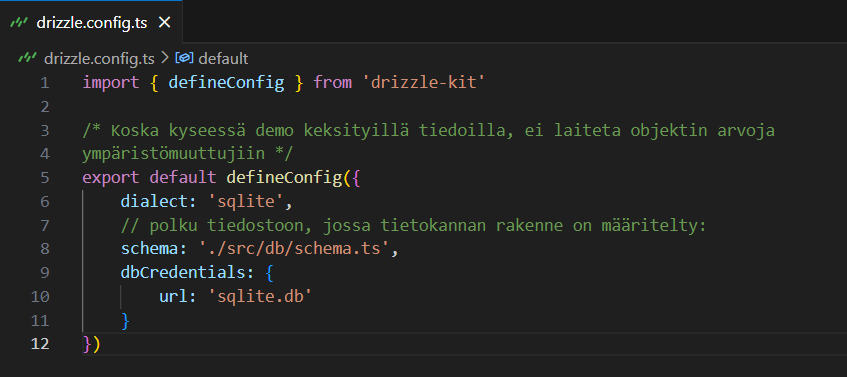
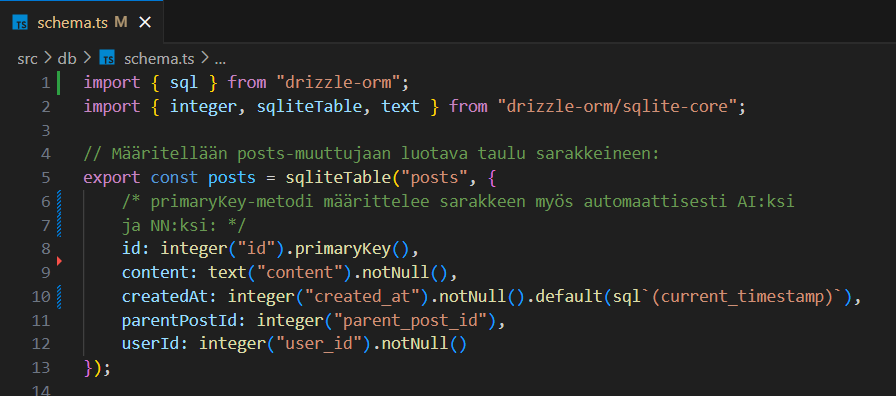
task_series_3.md-tiedostoon täydennetty kohta 1. A) ja tehty kohta 1. B). Näihin liittyen lisätty kuvia. schema.ts-tiedostossa createdAt-sarakkeelle lisätty oletusarvo. parentPostId-sarakkeelle lisätty viiteavain. Taululle lisätty sisäinen one-to-many-relaatio kahden eri muuttujamäärittelyn avulla.

diff --git a/src/db/schema.ts b/src/db/schema.ts
@@ -1,13 +1,37 @@
-import { integer, sqliteTable, text } from "drizzle-orm/sqlite-core";
+import { relations, sql } from "drizzle-orm";
+import { AnySQLiteColumn, integer, sqliteTable, text } from "drizzle-orm/sqlite-core";
 
 // Määritellään posts-muuttujaan luotava taulu sarakkeineen:
 export const posts = sqliteTable("posts", {
-    // primaryKey-metodi määrittelee sarakkeen myös automaattisesti NN:ksi: 
+    /* primaryKey-metodi määrittelee sarakkeen myös automaattisesti AI:ksi 
+    ja NN:ksi: */
     id: integer("id").primaryKey(),
-    topic: text("topic").notNull(), 
     content: text("content").notNull(), 
-    createdAt: integer("created_at").notNull(),
-    parentPostId: integer("parent_post_id"), 
+    createdAt: integer("created_at").notNull().default(sql`(current_timestamp)`),
+    parentPostId: integer("parent_post_id").references((): AnySQLiteColumn => posts.id), 
     userId: integer("user_id").notNull()
 });
+
+
+// Relaatio aloitusviestistä vastausviesteihin:
+export const fromStarterToResponse = relations(posts, ({ many }) => ({
+    posts: many(posts, {
+        relationName: "postRelations"
+    })
+}));
+
+
+// Relaatio vastausviestistä aloitusviestiin:
+export const fromResponseToStarter = relations(posts, ({ one }) => ({
+    parent: one(posts, {
+        /* Vierasavain, joka viittaa toisen (tässä tapaukessa oman) taulun 
+        primary keyhyn: */
+        fields: [posts.parentPostId], 
+        /* Taulun ensisijainen avain, josta toisen (tässä tapauksessa oman) 
+        taulun vierasavaimelle saadaan arvo eli viite: */
+        references: [posts.id], 
+        relationName: "postRelations"
+    })
+}))
+
 

diff --git a/task_series_3.md b/task_series_3.md
@@ -4,24 +4,44 @@
 
 Tämä tehtävä on tehty Hono-projektina npm-paketinhallintaohjelmalla. Tietokanta on toteutettu Drizzle ORM -kirjastoa hyödyntämällä. Hono-projektin juureen on luotu drizzle.config.ts-tiedosto ja db-kansio. drizzle.config.ts-tiedostossa on Drizzle ORM -kirjaston käyttöön liittyviä määrittelyjä. Konfiguraatiofunktiokutsussa määritellään muun muassa, että käytetään SQLite-tietokantaa. Lisäksi määritellään polku tiedostoon, jossa tietokannan rakenne on määritelty, sekä tietokannan tiedostonimi.
 
-![alt text](image.png)
+![alt text](./images/image-1.png)
 
 Projektin juureen on luotu myös db-kansio, jonne on tehty schema.ts- ja sqlite_db.ts-tiedostot. Valmiissa projektissa schema.ts-tiedostosta löytyy tietokantataulut ja tietokantarelaatiot, jotka on määritelty Drizzle ORM -kirjaston metodien avulla omiin muuttujiinsa. sqlite_db.ts-tiedossa Database-luokasta instantioidaan sqlite.db-niminen tietokanta ja db-muuttujaan luodaan yhteys tähän tietokantaan.
 
-![alt text](image-1.png)
+![alt text](./images/image-2.png)
 
 Jotta tietokannan luonti ja sen tarkastelu Drizzle Studio -työkalun avulla onnistuu, on projektin package.json-tiedostossa olevan objektin scripts-avaimessa olevan objektin sisään lisätty generate-, migrate- ja studio-avaimet arvoineen. Jos devDepedencies-avaimen objektilta ei löydy @types/better-sqlite3-avainta, pitää se lisätä erikseen komentoterminaalin kautta ajamalla projektin juurisijainnissa komento npm install @types/better-sqlite3 --save-dev.
 
+![alt text](./images/image-3.png)
+
+### 1. Toteuta määrittelyn pohjalta valitsemaasi tietokantaratkaisuun tarvittavat muutokset
+
+A) Lisätään tietokantaan posts-taulu viesteille/postauksille määritellyn datarakenteen pohjalta:
+
+Vaatimusmäärittelyiden mukaisesti id-sarake määritellään primary keyksi primaryKey-metodin avulla. Metodi asettaa sarakkeelle automaattisesti not-null- ja auto increment -ominaisuudet. Sarake on tietotyypiltään kokonaisluku. Käyttäjältä tulevan viestin varsinaista sisältöä varten tehdäään content-sarake, jonka tietotyypiksi määritellään SQLiten tietotyypeistä text. Viestillä on oltava sisältö, joten sarake määritellään not-nulliksi. created_at-sarakkeen tietotyypiksi määritellään text, ja vaatimusmäärittelyn mukaisesti automatisoidaan aikaleiman lisääminen tietokannalle määrittelemällä sarakkeelle oletusarvo Drizzlen sql-funktion avulla. Viestillä on oltava aikaleima, joten määritellään sarake not-nulliksi. parent_post_id-sarake määritellään kokonaisluvuksi tai NULL:ksi riippuen siitä, onko tietue aloitus- vai vastausviesti. user_id-sarake määritellään kokonaisluvuksi. Koska viestillä on oltava tunnistettava lähettäjä eli käyttäjä, asetetaan sarake not-nulliksi.
+
+![alt text](image.png)
+
+Ajetaan komentoterminaalissa projektin juurisijainnissa ensin komento npm run generate, sitten npm run migrate ja lopuksi npm run studio, minkä jälkeen tietokanta posts-taululla on luotu. Projektin juuresta löytyy tämän jälkeen sqlite.db-niminen tietokanta. Luotua tietokannan taulua pääsee tarkastelemaan Drizzle Studiossa osoittessa https://local.drizzle.studio/. posts-taulusta löytyy nyt posts-muuttujaan määritellyt sarakkeet:
+
+![alt text](image-1.png)
+
+Suoritetaan viestin lisäävä INSERT-kysely Drizzle runnerissa:
+
 ![alt text](image-2.png)
 
-1. Toteuta määrittelyn pohjalta valitsemaasi tietokantaratkaisuun tarvittavat muutokset
-
-A) Lisätään tietokantaan posts-taulu määritellyn datarakenteen pohjalta:
-
-Luodaan Drizzle ORM -kirjaston avulla sqlite.db-niminen tietokanta. 
-
-![The code for creating posts table](img_1a.png)
-
-Ajetaan komentoterminaalissa projektin juurisijainnissa ensin komento npm run generate, sitten npm run migrate ja lopuksi npm run studio, minkä jälkeen tietokanta posts-taululla on luotu. Projektin juuresta löytyy tämän jälkeen sqlite.db-niminen tietokanta. Lisäksi luotua tietokannan taulua pääsee tarkastelemaan Drizzle Studiossa osoittessa https://local.drizzle.studio/. posts-taulusta löytyy nyt posts-muuttujaan määritellyt sarakkeet:
+Uusi tietue on nyt lisätty posts-tauluun. Tietokanta huolehti id:n ja aikaleiman generoinnin lisätylle tietueelle:
 
 ![alt text](image-3.png)
+
+B) Lisätään posts-tauluun viiteavain postaukseen itseensä. 
+
+Vaatimusmäärittelyn mukaan aloitusviestillä voi olla vastausviestejä, minkä vuoksi viestien välille tarvitaan relaatio/viite. Koska viite tehdään tauluun itseensä, tehdään tauluun sarake parent_post_id. Jos tämän sarakkeen arvo tietueella on null, kyseessä on aloitusviesti. Jos tietueelta löytyy sarakkeen kohdasta arvo, kyseessä on vastausviesti. Sarakkeen arvo on silloin toisen viestitietueen id. Näin ollen parent_post_id-sarakkeesta on määriteltävä viiteavaimeksi ja viite tehdään id-sarakkeeseen. 
+
+![alt text](image-4.png)
+
+Koska aloitusviestillä voi olla useita vastausviestejä mutta viestillä voi olla korkeintaan yksi "parent"-viesti, tehdään posts-taulusta one-to-many-relaatio itseensä. Määritellään relaatiot aloitusviestistä mahdollisiin vastausviesteihin ja vastausviestistä aloitusviestiin omiin muuttujiinsa.
+
+![alt text](image-5.png)
+
+
